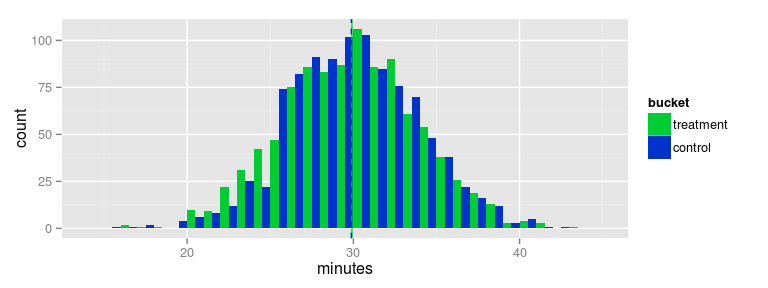
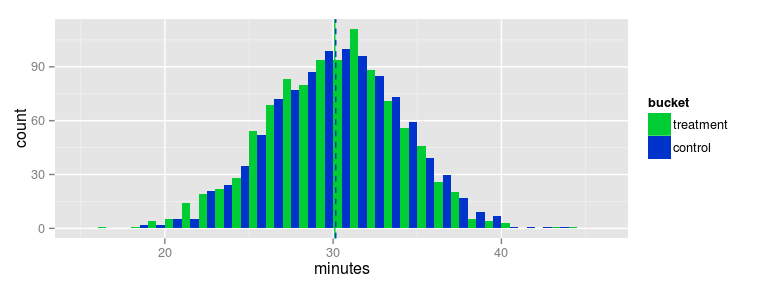
improved markdown

Changed region(s): [[0.0312, 0.0625, 0.8125, 0.9688], [0.1875, 0.8438, 0.25, 0.9062], [0.625, 0.8438, 0.6875, 0.9062]]

diff --git a/pvalues.html b/pvalues.html
@@ -107,13 +107,13 @@ values =<span class="st"> </span><span class="kw">rbind</span>( data1, data2 )  
 ##  Welch Two Sample t-test
 ## 
 ## data:  vt and vc
-## t = 0.2203, df = 1994.414, p-value = 0.4128
+## t = -0.331, df = 1997.835, p-value = 0.6297
 ## alternative hypothesis: true difference in means is greater than 0
 ## 95 percent confidence interval:
-##  -0.2549385        Inf
+##  -0.3469031        Inf
 ## sample estimates:
 ## mean of x mean of y 
-##  29.91643  29.87703</code></pre>
+##  30.09762  30.15572</code></pre>
 <p>… as expected, we don’t reject H0: there is <em>no</em> effect here.</p>
 <p>So our try with the grey background was not successful :-(</p>
 </div>
@@ -210,29 +210,31 @@ plot_grid &lt;-<span class="st"> </span>function( data ) {
 <p>Ok, let’s bite the bullet and test 100 different shades of grey …</p>
 <pre class="sourceCode r"><code class="sourceCode r">data =<span class="st"> </span><span class="kw">generate_tests</span>(<span class="dv">100</span>)</code></pre>
 </div>
-<div id="section" class="slide section level1 slide_blank">
-<h1> </h1>
-<p><em>(remember, red background means that there is a statistically significant effect)</em></p>
+<div id="plot-it" class="slide section level1 slide_mini slide_notitle">
+<h1>(plot it)</h1>
+<p><em>(remember, a red background means that there is a statistically significant effect)</em></p>
 <pre class="sourceCode r"><code class="sourceCode r"><span class="kw">plot_grid</span>( data )</code></pre>
-<p><img src="pvalues_files/figure-slidy/unnamed-chunk-10-1.png" /></p>
+<p><img src="pvalues_files/figure-slidy/unnamed-chunk-9-1.png" /></p>
 </div>
 <div id="whoa-we-got-effect" class="slide section level1">
 <h1>Whoa, we got effect!!!</h1>
 <ul class="incremental">
 <li><p>Finally there is something: some of the greys <em>do</em> work. Users spend more minutes with them</p></li>
-<li><p>But wait a minute: didn’t we said that all simulations have been made with <strong>no</strong> effect?</p></li>
+<li><p>But wait a minute: didn’t we say that all simulations have been made so that there is actually <strong>no</strong> effect?</p></li>
 </ul>
 </div>
 <div id="what-is-happening-here" class="slide section level1">
 <h1>What is happening here?</h1>
 <p>In a sentence: <strong>statistical fluctuation</strong></p>
 <ul class="incremental">
-<li>we designed our test with a significance value of p&lt;0.05.
+<li><p>We designed our test with a significance value of p&lt;0.05.</p>
 <ul class="incremental">
 <li><p>which means that the probability of “failing to adequately reject H0” is 0.05</p></li>
-<li><p>in other words, the probability of obtaining a difference between treatment and control greater than our significance threshold <em>due to chance</em> is 5%</p></li>
+<li><p>in other words, the probability of obtaining a difference between treatment and control greater than our significance threshold <strong>due to chance</strong> is 5%</p></li>
 <li><p>translating: quite probably in 5 out of every 100 tests with no effect we will nevertheless detect an effect</p></li>
 <li><p>and this is (roughly) what we saw</p></li>
+<li><p>note that this is random: we might have got a significant effect even already in our first simulation (though the probability for this is low)</p></li>
+<li><p>in general, this is more probable if we do <em>many</em> tests</p></li>
 </ul></li>
 </ul>
 </div>
@@ -244,8 +246,8 @@ plot_grid &lt;-<span class="st"> </span>function( data ) {
 <li>There are some mitigation measures we can take (such as increasing the required signficance level for metrics with low priors)</li>
 </ul>
 </div>
-<div id="section-1" class="slide section level1 slide_last">
-<h1> </h1>
+<div id="end" class="slide section level1 slide_last slide_notitle">
+<h1>(end)</h1>
 <p><a href="index.html#58">Back to the A/B Testing primer</a></p>
 </div>
 

diff --git a/slidy_custom.css b/slidy_custom.css
@@ -83,9 +83,17 @@ div.slide_compressed h1{
     font-size: 120%;
 }
 
+div.slide_mini {
+    font-size: 60%;
+}
+
+div.slide_notitle h1 {
+    display: none;
+}
+
 div.slide_last {
     font-size: 150%;
-    padding-top: 6em;
+    padding-top: 7em;
     font-family: Georgia, "Times New Roman", "Times Roman", Times, serif;
 }
 
